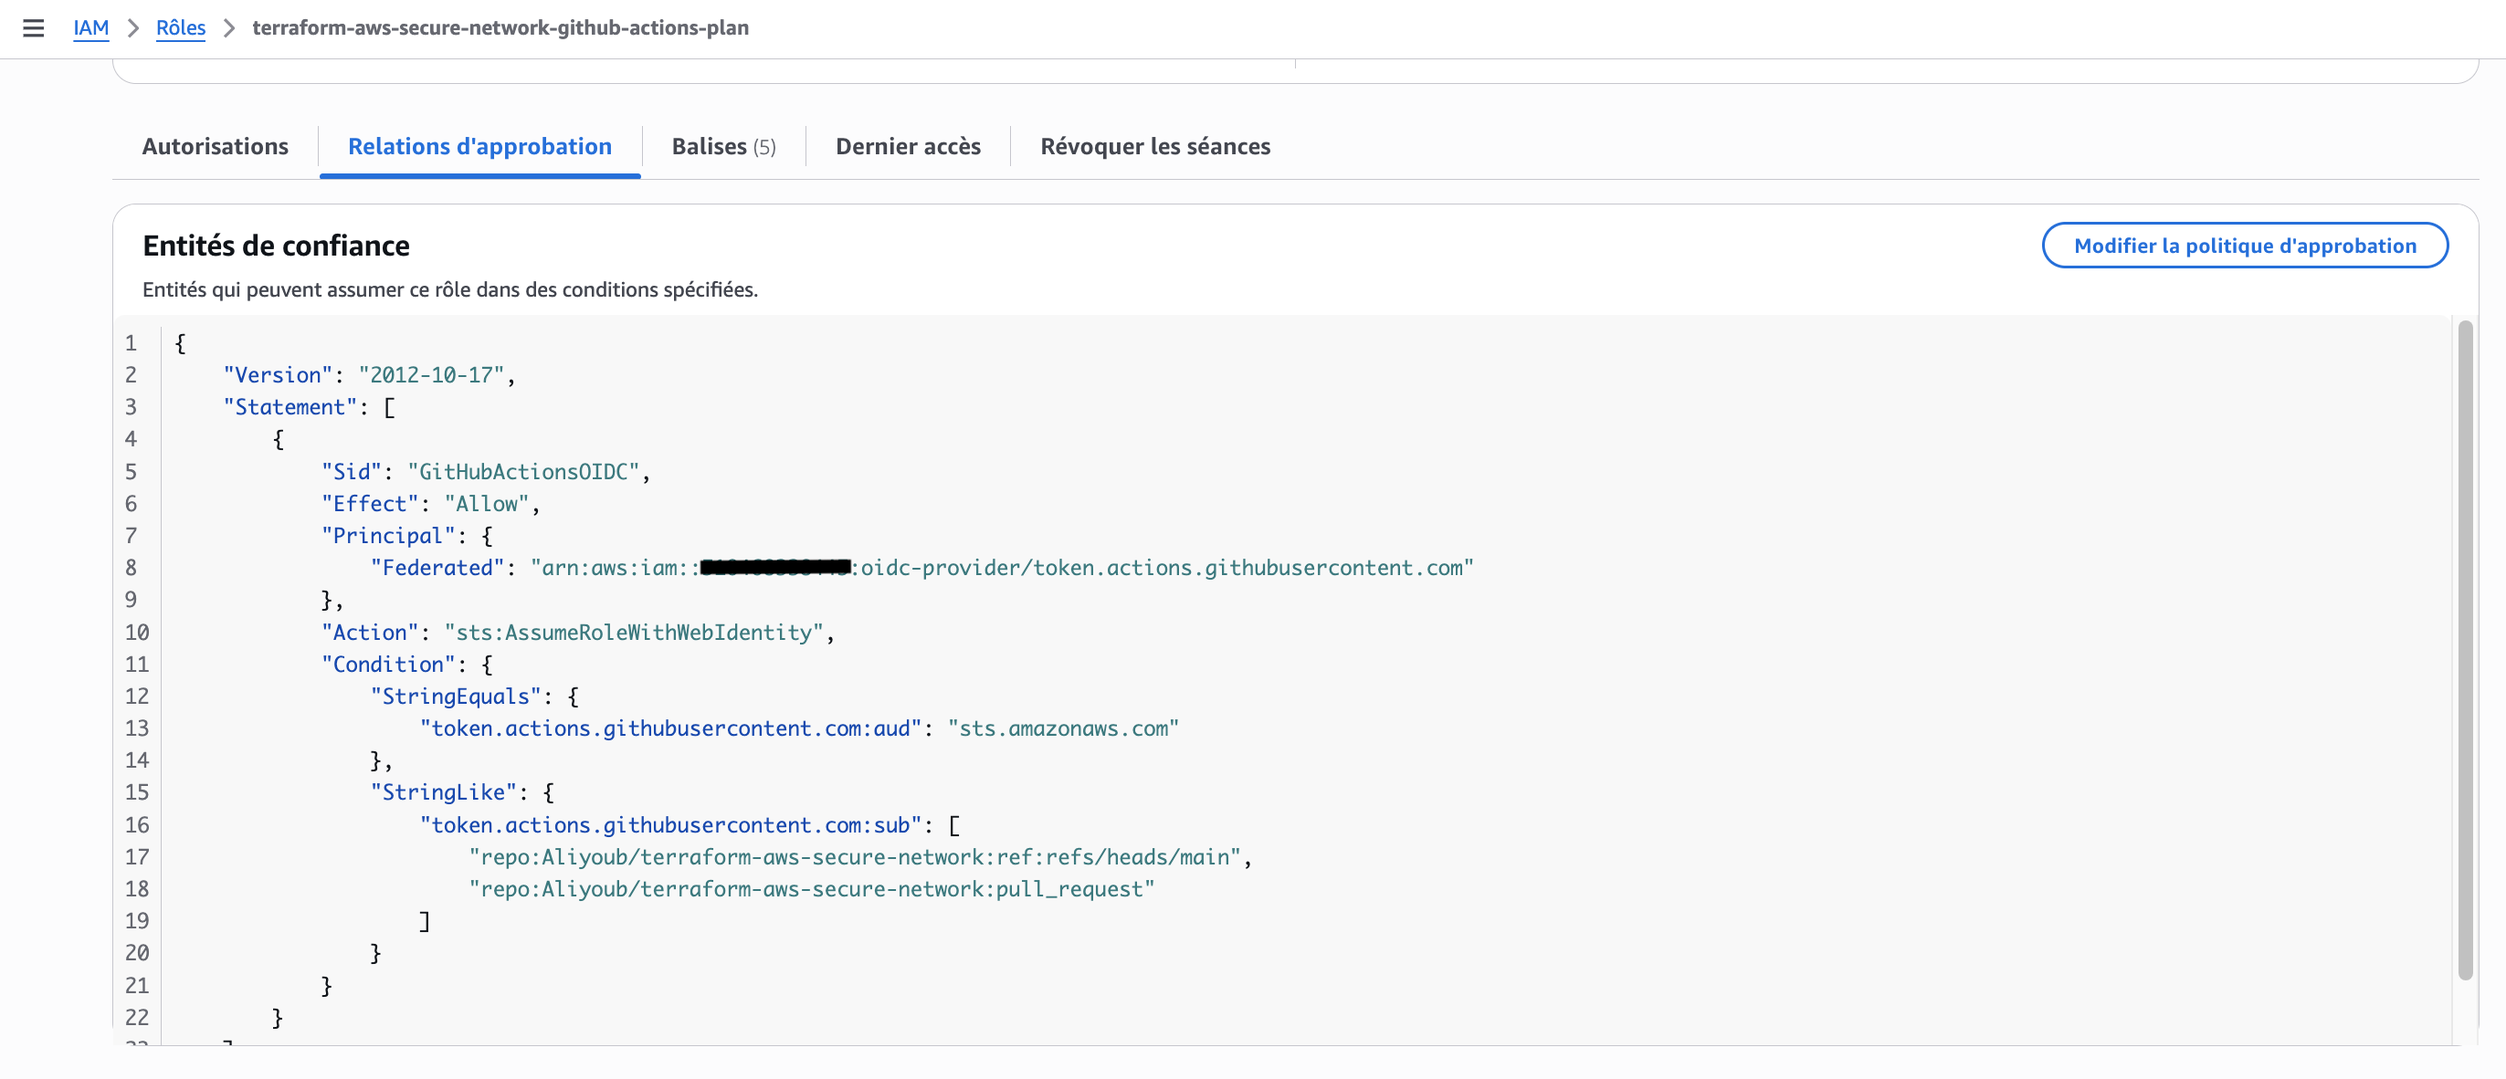
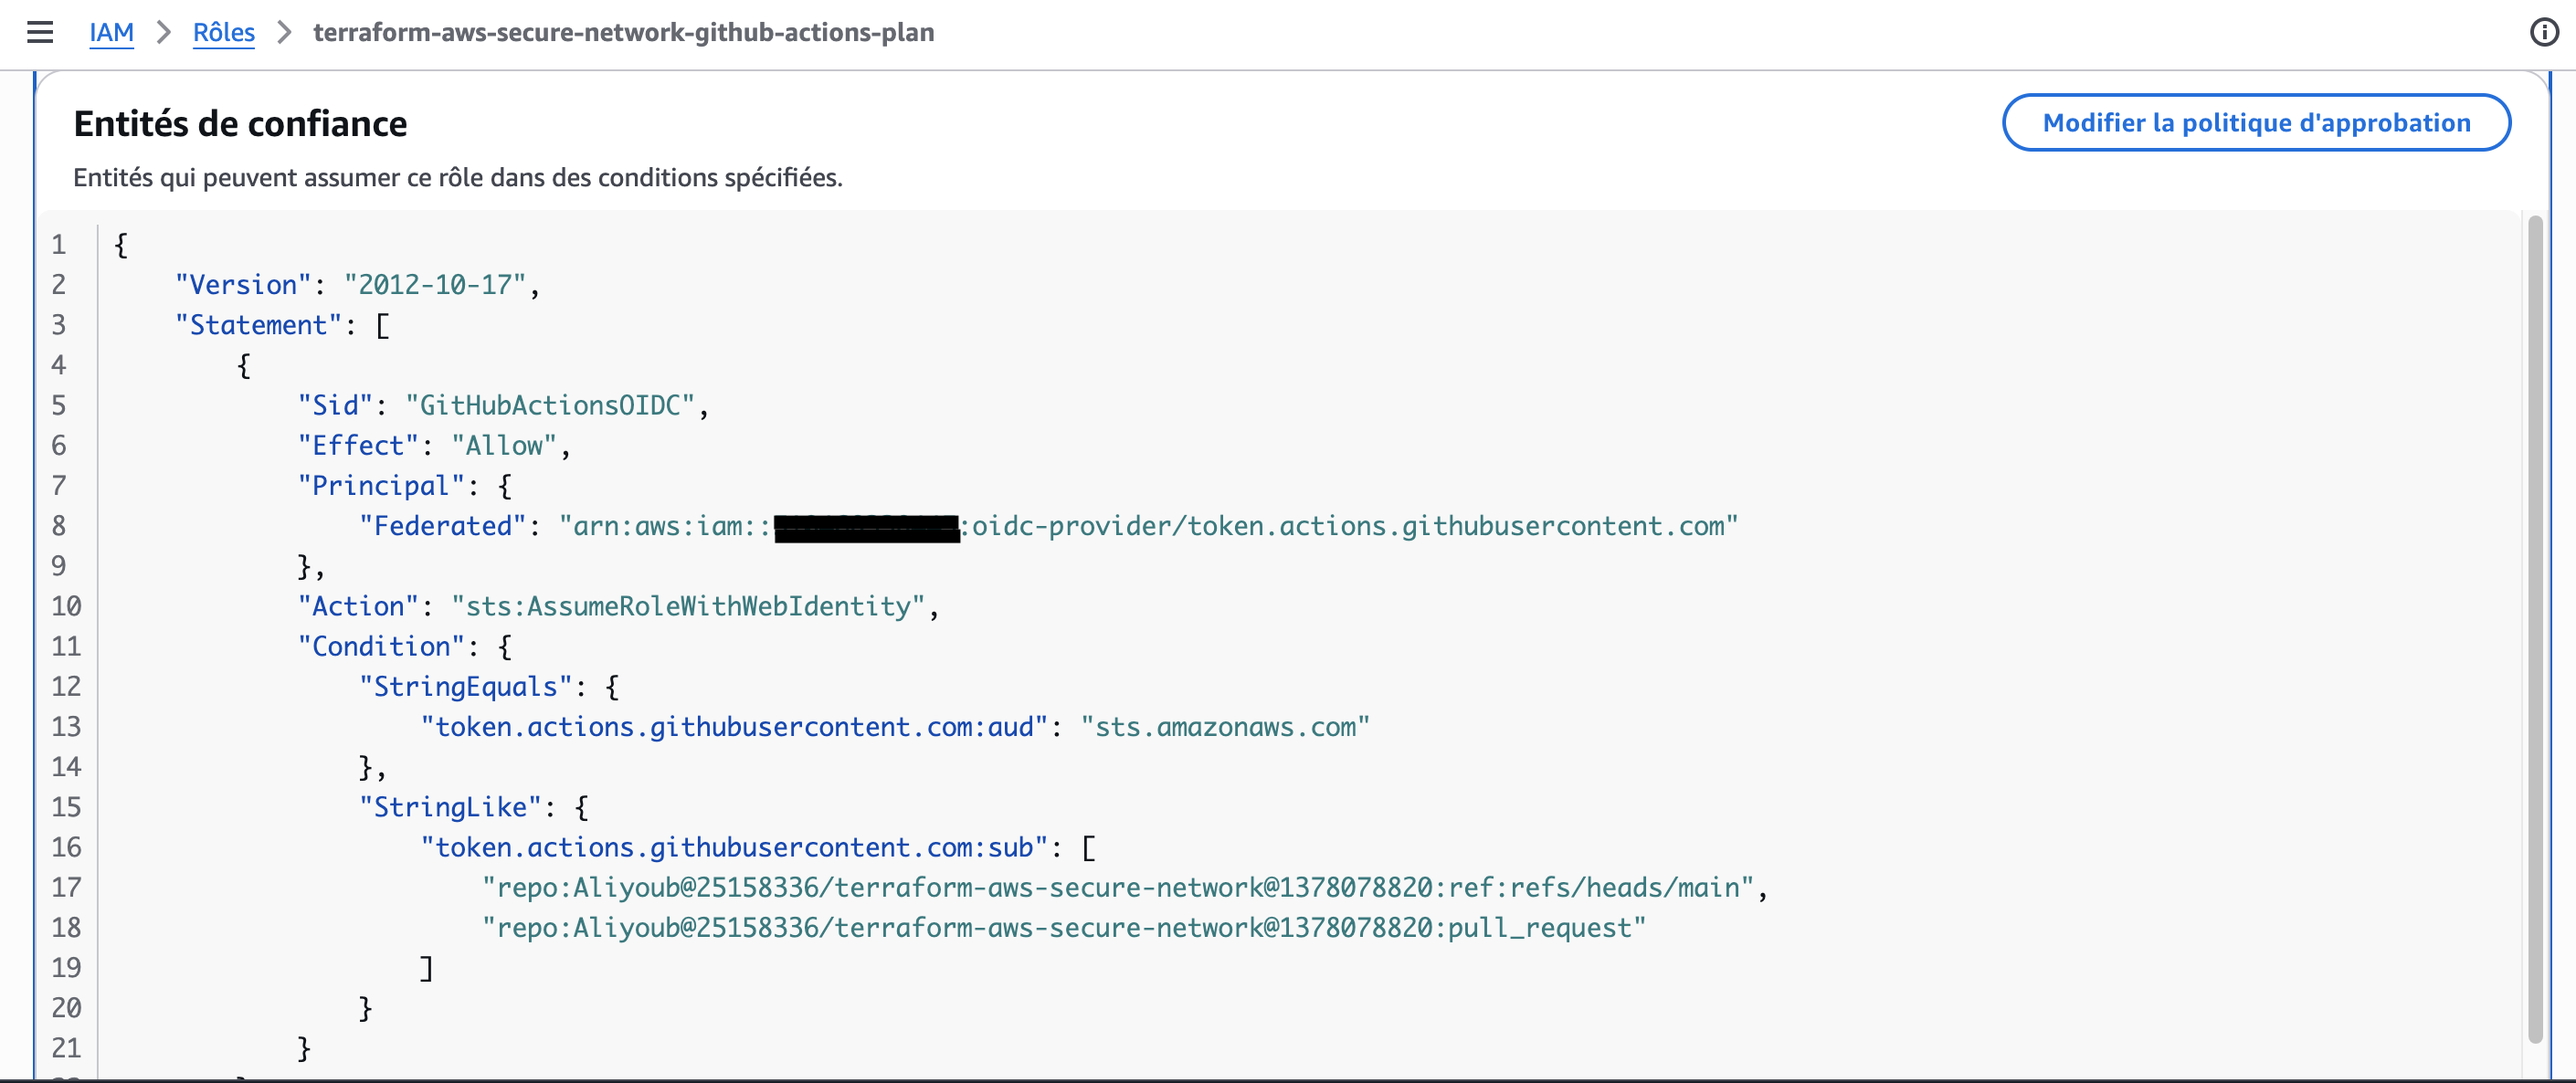
docs: mettre à jour la capture et l'explication de la politique de confiance corrigée
Remplace la capture 06-iam-oidc-role-trust.png par la politique de
confiance corrigée (sub avec identifiants immuables, ID de compte masqué)
et met à jour son explication dans docs/SECURITY.md pour refléter
l'incident et la correction documentés en ADR-017.

diff --git a/docs/SECURITY.md b/docs/SECURITY.md
@@ -120,7 +120,9 @@ sequenceDiagram
 | Condition | Valeur exigée | Empêche |
 |---|---|---|
 | `aud` (audience) | `sts.amazonaws.com` | Un jeton émis pour un autre service d'endosser ce rôle |
-| `sub` (sujet) | `repo:Aliyoub/terraform-aws-secure-network:ref:refs/heads/main` ou `repo:Aliyoub/terraform-aws-secure-network:pull_request` | Un fork ou un autre dépôt d'endosser ce rôle, même en connaissant son ARN |
+| `sub` (sujet) | `repo:Aliyoub@25158336/terraform-aws-secure-network@1378078820:ref:refs/heads/main` ou `...:pull_request` | Un fork ou un autre dépôt d'endosser ce rôle, même en connaissant son ARN |
+
+Le `sub` inclut les identifiants immuables du compte et du dépôt (`@25158336`, `@1378078820`) : GitHub les ajoute par défaut pour tout dépôt créé après le 15/07/2026, ce qui protège en plus contre un renommage ou un transfert du dépôt. Voir l'incident documenté en ADR-017.
 
 L'ARN du rôle n'est pas un secret : seule une organisation GitHub qui contrôle ce dépôt précis peut produire un jeton dont le `sub` correspond.
 
@@ -138,7 +140,7 @@ L'ARN du rôle n'est pas un secret : seule une organisation GitHub qui contrôle
 
 *Même rôle, onglet « Relations d'approbation ». L'ID de compte AWS a été masqué avant publication.*
 
-**Ce que montrent ces captures.** Le rôle n'a qu'une seule politique attachée (`...-plan-policy`), qui n'autorise que des actions `ec2:Describe*` : aucune création, modification ou suppression n'est possible avec ce rôle, quelle que soit la façon dont il serait détourné. Sa politique de confiance montre les deux conditions qui protègent son usage : `aud` vérifie que le jeton a été émis pour AWS STS, et `sub` le restreint au dépôt `Aliyoub/terraform-aws-secure-network`, sur la branche `main` ou pour une pull request de ce dépôt.
+**Ce que montrent ces captures.** Le rôle n'a qu'une seule politique attachée (`...-plan-policy`), qui n'autorise que des actions `ec2:Describe*` : aucune création, modification ou suppression n'est possible avec ce rôle, quelle que soit la façon dont il serait détourné. Sa politique de confiance montre les deux conditions qui protègent son usage : `aud` vérifie que le jeton a été émis pour AWS STS, et `sub` le restreint au dépôt `Aliyoub/terraform-aws-secure-network` (identifié par ses identifiants immuables), sur la branche `main` ou pour une pull request de ce dépôt. La capture 06 correspond à la politique corrigée après l'incident de l'ADR-017 ; une première version, restreinte au format simple `owner/repo`, avait empêché tout run d'aboutir.
 
 **Pourquoi l'ID de compte est masqué.** Il n'est pas un secret exploitable seul (ce n'est ni une clé d'accès ni un mot de passe), mais il facilite le repérage et le ciblage d'un compte. Il est masqué dans les captures publiées par précaution, alors que le reste de la politique — sans valeur d'identification à lui seul — reste lisible.
 
